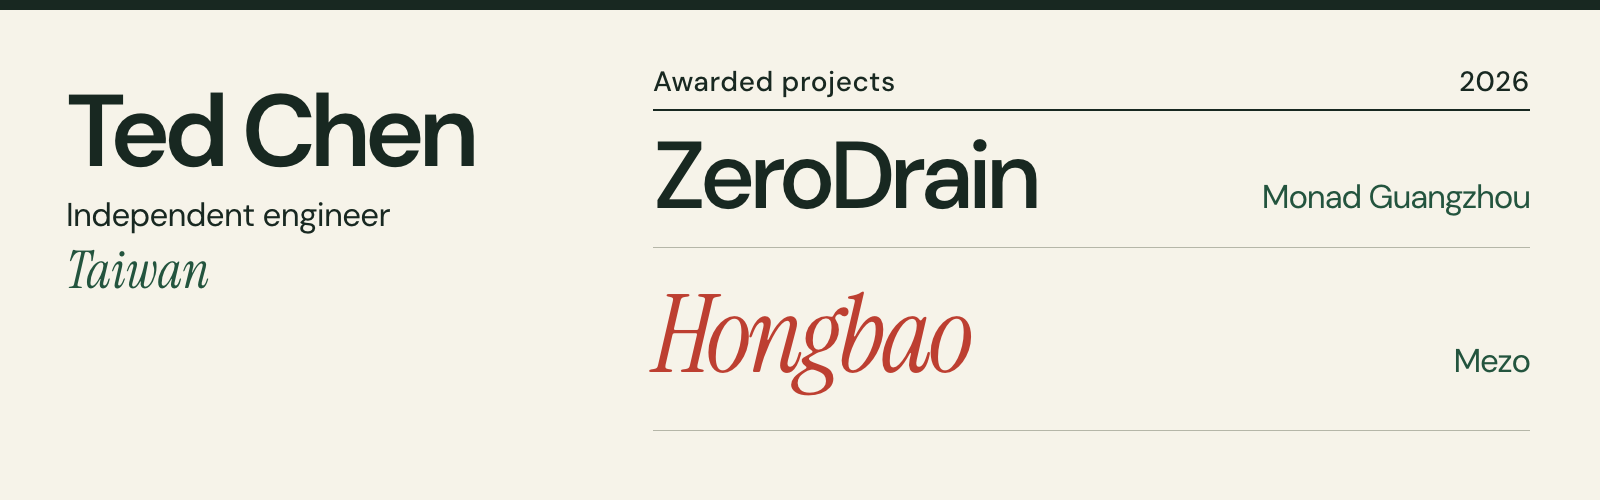
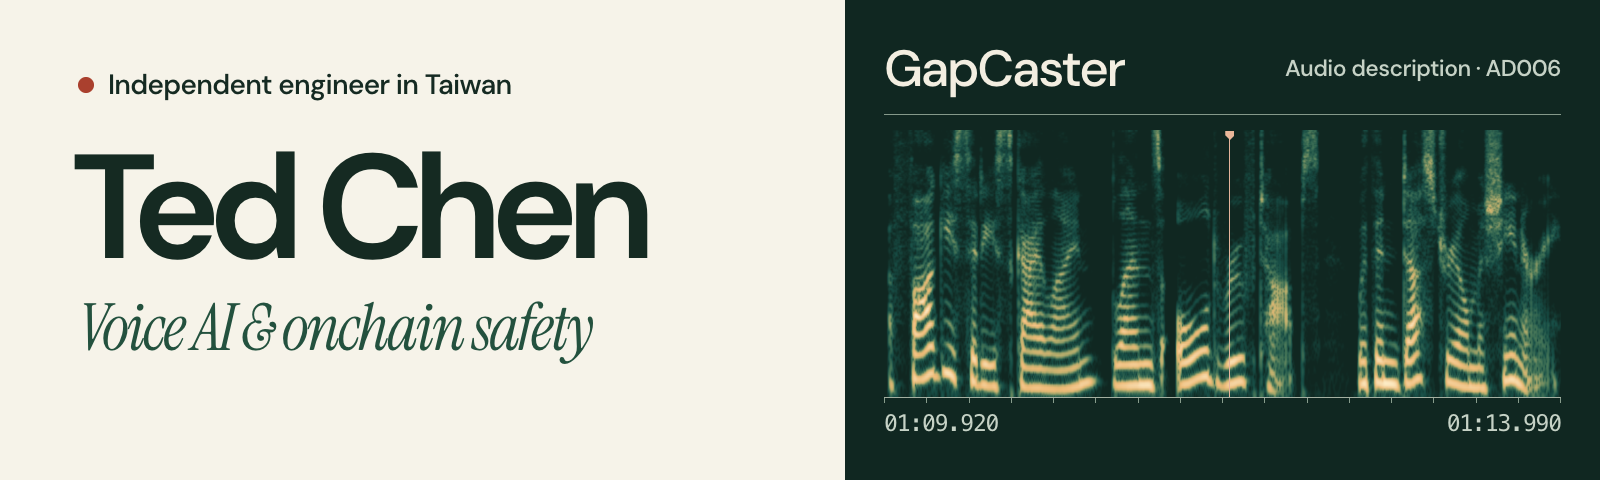
Lead with working demos and document six 2026 results

diff --git a/README.zh-TW.md b/README.zh-TW.md
@@ -1,35 +1,58 @@
-[![Ted Chen，台灣的獨立工程師](github-hero.png)](https://tedinroc.github.io/zh.html)
+[![Ted Chen，台灣的獨立工程師，開發語音 AI 與鏈上安全工具。封面是 GapCaster 一段 4.07 秒旁白的頻譜圖。](github-hero.png)](https://tedinroc.github.io/zh.html)
 
-[作品集](https://tedinroc.github.io/zh.html) · [LinkedIn](https://www.linkedin.com/in/tedinroc) · [X](https://x.com/tedinroc) · [English](README.md)
+[體驗 Eleven Seconds](https://tedinroc.github.io/eleven-seconds-arena/) · [試聽 GapCaster](https://tedinroc.github.io/gapcaster/zh.html#sample) · [2026 年成果](#recognition) · [English](README.md)
 
-我在台灣獨立開發語音工具和鏈上應用。
+我是 Ted，在台灣獨立開發。我做能在筆電上執行的語音工具，也設計讓人有時間攔下異常交易的鏈上系統。下面兩個作品都能直接體驗。
 
-## [試用 ZeroDrain 零盜盾](https://zerodrain-monad.pages.dev/)
+<a name="eleven-seconds-十一秒"></a>
 
-在 Monad 測試網竄改提款地址，看金庫攔下這筆交易。斷路器啟動後，只有事前登記的通行密鑰能授權提款，款項只能匯往預設的復原地址。
+## Eleven Seconds 十一秒 · 攔下一次合約升級
 
-[Monad Blitz 廣州站第二名](https://mojo.devnads.com/events/18?tab=showcase) · [原始碼](https://github.com/tedinroc/zerodrain-monad)
+在 Monad 測試網送出升級提案後，三個各自持有金鑰的監控程式會在 30 個區塊內檢查提案。只要其中一個發現提案違反安全規則，就能在鏈上否決這次升級。[操作測試網展示](https://tedinroc.github.io/eleven-seconds-arena/) · [原始碼](https://github.com/tedinroc/eleven-seconds) · [參賽作品頁](https://mojo.devnads.com/projects/409)
 
-## [看 Hongbao 紅包示範](https://hongbao.trytry.net/video/)
+<a name="gapcaster"></a>
 
-兩分鐘的影片記錄了一個在 Mezo 主網發出的 MUSD 紅包。朋友點開群組連結就能平分紅包，原本沒有錢包也能領。每份紅包預設存入收款人的儲蓄帳戶，另附少量 BTC 支付手續費。目前主網測試版設有額度上限。
+## GapCaster · 聽見電影對白之間的畫面
 
-[獲選 Mezo Buildathon 第二波補助](https://app.akindo.io/communities/NmgM6k04KCdvpAZ8N/products/Pv1eeQQOVTgXBxv4) · [原始碼](https://github.com/tedinroc/hongbao)
+打開《Tears of Steel》的同一段場景，比較原片與加入口述影像的版本。GapCaster 在筆電上離線產生旁白，逐句量測長度。有一段對白空檔只有 2.75 秒，它將原本 2.78 秒的旁白調到 2.64 秒，審閱者也能逐句對照影片依據。[比較兩個版本](https://tedinroc.github.io/gapcaster/zh.html#sample) · [播放口述影像片段](https://github.com/tedinroc/gapcaster/blob/main/samples/tears-of-steel-0-140/clip_with_ad.mp4) · [原始碼與計時資料](https://github.com/tedinroc/gapcaster)
 
-## 語音與 AI agent
+<a name="recognition"></a>
 
-- <a name="gapcaster"></a>**GapCaster** 在筆電上離線產生口述影像，量過旁白的實際長度，再改寫或調速，讓它剛好落在電影對白的空檔。每句描述都留有依據，方便對照影片審閱。**入圍 ASUS UGen AI League 2026 決賽。** [看加入口述影像的片段](https://github.com/tedinroc/gapcaster/blob/main/samples/tears-of-steel-0-140/clip_with_ad.mp4) · [程式碼與輸出範例](https://github.com/tedinroc/gapcaster)
-- <a name="remote-hands"></a>**Remote Hands** 讓 AI 根據主控台截圖及按鍵輸入，修復 Linux 測試伺服器。另一個程式會重新開機、測試 SSH 連線，並檢查資料完整性。 [重播修復過程](https://tedinroc.github.io/remote-hands/) · [原始碼](https://github.com/tedinroc/remote-hands)
-- **KAIKŌ** 讓客人用語音點餐，伺服器在接單前會核對價格並驗證工具呼叫。 [看完整點餐錄影](https://tedinroc.github.io/kaiko/)
-- **語音 agent 手錶** 把 ESP32-S3 手錶接上我用 Go 寫的語音閘道。 [看手錶原型](https://tedinroc.github.io/watch/)
+## 2026 年競賽與補助
 
-## 其他鏈上作品
+| 作品 | 成績與紀錄 |
+| --- | --- |
+| Eleven Seconds | [Monad Blitz 上海 V3 第一名](https://mojo.devnads.com/events/17?tab=showcase) |
+| Upgrade Airlock | [ETH Shenzhen 2026 第二名](https://github.com/tedinroc/upgrade-airlock#readme) |
+| ZeroDrain | [Monad Blitz 廣州站第二名](https://mojo.devnads.com/events/18?tab=showcase) |
+| Isotherm | [Monad Metropolis 的 MetaMask 最佳 Agent Wallet 外掛類別第二名](https://x.com/monad/status/2120551113610953111) · [獎金 750 美元](https://github.com/tedinroc/isotherm/blob/main/docs/awards/metropolis-metamask-bounty.png) |
+| GapCaster | [ASUS UGen AI League 2026 高效開發國際線上組決賽入圍](https://contest.bhuntr.com/en/39jg9vimiynrhlksze/article/4517/) |
+| Hongbao | [獲選 Mezo Buildathon 第二波開發補助](https://api.akindo.io/public/wave-hacks/OVOO0gdrVU8379D10/waves/WjDnR6LJaSBkVkQz/submission-summaries?page=1&limit=5&keyword=Hongbao) · [參賽作品頁](https://app.akindo.io/communities/NmgM6k04KCdvpAZ8N/products/Pv1eeQQOVTgXBxv4) |
 
-- <a name="eleven-seconds-十一秒"></a>**Eleven Seconds 十一秒** 讓三個獨立監控程式在 30 個區塊的等待期內檢查合約升級，並能在鏈上否決違規操作。**Monad Blitz 上海 V3 第一名。** [操作測試網展示](https://tedinroc.github.io/eleven-seconds-arena/) · [原始碼](https://github.com/tedinroc/eleven-seconds) · [官方得獎名單](https://mojo.devnads.com/events/17?tab=showcase)
-- <a name="upgrade-airlock-升級氣閘"></a>**Upgrade Airlock 升級氣閘** 要求代理合約先經過冷卻期並取得鏈上放行，才能升級。**ETH Shenzhen 2026 第二名。** [觀看展示](https://upgrade-airlock.pages.dev/video/) · [原始碼](https://github.com/tedinroc/upgrade-airlock)
-- <a name="isotherm"></a>**Isotherm** 用機場氣象觀測報告結算城市氣溫市場，並提供 MetaMask Agent Wallet 外掛，讓 AI agent 使用訂單簿。**獲 Monad Metropolis 的 MetaMask 賞金 US$750。** [探索專案](https://tedinroc.github.io/isotherm/) · [原始碼](https://github.com/tedinroc/isotherm) · [得獎紀錄](https://github.com/tedinroc/isotherm/blob/main/docs/awards/metropolis-metamask-bounty.png)
-- <a name="undo-for-bitcoin"></a>**Undo for Bitcoin** 讓使用者能在公開等待期內，用手機的通行密鑰撤回尚待簽署的比特幣支出。 [操作測試網展示](https://undo-btc.pages.dev/) · [原始碼](https://github.com/tedinroc/undo)
+[在作品集查看完整紀錄](https://tedinroc.github.io/zh.html#recognition)
 
-系統由我設計，大部分程式碼由 Claude Code 與 Codex 撰寫。我負責審查、測試與部署。如果展示出錯，歡迎在對應的儲存庫開 issue，附上重現步驟。
+## 近期作品
 
-我也用真實高程資料做了一個 three.js 月球場景。 [探索 EARTHRISE](https://tedinroc.github.io/earthrise/) · [作品集影像來源](https://tedinroc.github.io/assets/portfolio/credits.txt)
+- <a name="試用-zerodrain-零盜盾"></a>**ZeroDrain 零盜盾**。試著更改提款地址，看金庫如何拒絕這筆交易。斷路器啟動後，只有事先登記的通行密鑰能授權提款，款項也只能匯往預設的復原地址。[操作測試網展示](https://zerodrain-monad.pages.dev/) · [原始碼](https://github.com/tedinroc/zerodrain-monad)
+- <a name="看-hongbao-紅包示範"></a>**Hongbao 紅包**。朋友點開群組連結就能平分 MUSD 紅包。兩分鐘的影片記錄一筆真實的 Mezo 主網轉帳，領紅包的人也會拿到支付手續費用的 BTC。目前主網測試版設有額度上限。[看兩分鐘影片](https://hongbao.trytry.net/video/) · [原始碼](https://github.com/tedinroc/hongbao)
+
+<a name="語音與-ai-agent"></a>
+<a name="其他鏈上作品"></a>
+
+## 更多作品
+
+- <a name="remote-hands"></a>**Remote Hands** 讓 AI 根據主控台截圖及按鍵輸入，修復 Linux 測試伺服器。另一個程式會重新開機、測試 SSH 連線並檢查資料完整性。[重播修復過程](https://tedinroc.github.io/remote-hands/) · [原始碼](https://github.com/tedinroc/remote-hands)
+- <a name="isotherm"></a>**Isotherm** 用機場氣象觀測報告結算城市氣溫市場，也提供 MetaMask Agent Wallet 外掛，讓 AI agent 讀取訂單簿及下單。[探索市場](https://tedinroc.github.io/isotherm/) · [原始碼](https://github.com/tedinroc/isotherm)
+- <a name="upgrade-airlock-升級氣閘"></a>**Upgrade Airlock 升級氣閘** 要求代理合約先經過冷卻期並取得鏈上放行，才能升級。[觀看展示](https://upgrade-airlock.pages.dev/video/) · [原始碼](https://github.com/tedinroc/upgrade-airlock)
+- <a name="undo-for-bitcoin"></a>**Undo for Bitcoin** 讓使用者在公開等待期內，用手機通行密鑰撤回一筆尚待簽署的比特幣支出。[操作測試網展示](https://undo-btc.pages.dev/) · [原始碼](https://github.com/tedinroc/undo)
+- **KAIKŌ** 讓客人用語音點餐，伺服器會在接單前核對價格。[看完整點餐錄影](https://tedinroc.github.io/kaiko/)
+- **語音 agent 手錶** 把 ESP32-S3 手錶接上我用 Go 寫的語音閘道。[看手錶原型](https://tedinroc.github.io/watch/)
+- **EARTHRISE** 用真實高程資料在瀏覽器中重建月球表面。[探索月面](https://tedinroc.github.io/earthrise/) · [Tripo 精選作品頁](https://developers.tripo3d.com/en/showcase/earthrise)
+
+## 我的開發方式
+
+我負責系統設計、程式碼審查、測試及部署，大部分程式碼由 Claude Code 與 Codex 撰寫。如果遇到展示無法運作，歡迎到對應的儲存庫開 issue，附上重現步驟。
+
+[作品集](https://tedinroc.github.io/zh.html) · [LinkedIn](https://www.linkedin.com/in/tedinroc) · [X](https://x.com/tedinroc)
+
+[封面頻譜取自 GapCaster 的 AD006 旁白](https://github.com/tedinroc/gapcaster/blob/main/samples/tears-of-steel-0-140/lines/AD006.wav) · [作品集影像來源](https://tedinroc.github.io/assets/portfolio/credits.txt)

diff --git a/README.md b/README.md
@@ -1,35 +1,58 @@
-[![Ted Chen, independent engineer in Taiwan](github-hero.png)](https://tedinroc.github.io/)
+[![Ted Chen, independent engineer in Taiwan working on voice AI and onchain safety. A spectrogram shows 4.07 seconds of GapCaster audio description.](github-hero.png)](https://tedinroc.github.io/)
 
-[Portfolio](https://tedinroc.github.io/) · [LinkedIn](https://www.linkedin.com/in/tedinroc) · [X](https://x.com/tedinroc) · [繁體中文](README.zh-TW.md)
+[Try Eleven Seconds](https://tedinroc.github.io/eleven-seconds-arena/) · [Hear GapCaster](https://tedinroc.github.io/gapcaster/#sample) · [2026 results](#recognition) · [繁體中文](README.zh-TW.md)
 
-I build voice tools and onchain apps in Taiwan.
+I’m Ted, an independent engineer in Taiwan. I build voice tools that run on a laptop and onchain systems that give people time to stop a bad transaction. Here are two you can try.
 
-## [Try ZeroDrain on testnet](https://zerodrain-monad.pages.dev/)
+<a name="eleven-seconds"></a>
 
-Change a withdrawal address and watch the vault reject it. After the circuit breaker trips, a previously enrolled passkey can release funds only to the preset recovery address.
+## Eleven Seconds · Stop a contract upgrade
 
-[2nd place, Monad Blitz Guangzhou](https://mojo.devnads.com/events/18?tab=showcase) · [Code](https://github.com/tedinroc/zerodrain-monad)
+Propose an upgrade on Monad testnet. Three independently keyed sentinels get 30 blocks to check it. Any one can veto an upgrade that breaks its safety rules. [Try the arena](https://tedinroc.github.io/eleven-seconds-arena/) · [Read the code](https://github.com/tedinroc/eleven-seconds) · [Competition entry](https://mojo.devnads.com/projects/409)
 
-## [Watch the Hongbao demo](https://hongbao.trytry.net/video/)
+<a name="gapcaster"></a>
 
-This two-minute film follows a real MUSD red packet on Mezo mainnet. Friends open a link in their group chat to claim equal shares, even without a wallet. Each share goes into savings by default, with a little BTC for gas. Hongbao runs as a capped beta.
+## GapCaster · Hear what happens between lines
 
-[Selected for a Mezo Buildathon Wave 2 grant](https://app.akindo.io/communities/NmgM6k04KCdvpAZ8N/products/Pv1eeQQOVTgXBxv4) · [Code](https://github.com/tedinroc/hongbao)
+Compare the original scene from *Tears of Steel* with a version that adds audio description. GapCaster runs offline and measures each spoken line. In one 2.75-second gap, it sped up a 2.78-second line to play in 2.64 seconds. A reviewer can check each line against its source. [Compare the two cuts](https://tedinroc.github.io/gapcaster/#sample) · [Play the described clip](https://github.com/tedinroc/gapcaster/blob/main/samples/tears-of-steel-0-140/clip_with_ad.mp4) · [Inspect the code and timing data](https://github.com/tedinroc/gapcaster)
 
-## Voice and AI agents
+<a name="recognition"></a>
 
-- <a name="gapcaster"></a>**GapCaster** writes and times audio descriptions so they fit between lines of dialogue. For the laptop prototype, I kept each line’s evidence for a reviewer to check alongside the clip. **ASUS UGen AI League 2026 finalist.** [Watch the described clip](https://github.com/tedinroc/gapcaster/blob/main/samples/tears-of-steel-0-140/clip_with_ad.mp4) · [Code and sample outputs](https://github.com/tedinroc/gapcaster)
-- <a name="remote-hands"></a>**Remote Hands** repairs a Linux test server from console screenshots and keystrokes. A separate probe reboots it and checks SSH access and data integrity. [Replay a repair](https://tedinroc.github.io/remote-hands/) · [Source](https://github.com/tedinroc/remote-hands)
-- **KAIKŌ** takes a restaurant order by voice. The server checks prices and tool calls before accepting the order. [Watch a demo order](https://tedinroc.github.io/kaiko/)
-- **Voice-agent watch** connects an ESP32-S3 watch to a voice gateway I wrote in Go. [Explore the prototype](https://tedinroc.github.io/watch/)
+## 2026 recognition
 
-## Earlier onchain work
+| Project | Result and record |
+| --- | --- |
+| Eleven Seconds | [1st place · Monad Blitz Shanghai V3](https://mojo.devnads.com/events/17?tab=showcase) |
+| Upgrade Airlock | [2nd place · ETH Shenzhen 2026](https://github.com/tedinroc/upgrade-airlock#readme) |
+| ZeroDrain | [2nd place · Monad Blitz Guangzhou](https://mojo.devnads.com/events/18?tab=showcase) |
+| Isotherm | [2nd in MetaMask’s Best Agent Wallet Plugin category · Monad Metropolis](https://x.com/monad/status/2120551113610953111) · [US$750 bounty](https://github.com/tedinroc/isotherm/blob/main/docs/awards/metropolis-metamask-bounty.png) |
+| GapCaster | [Finalist, High-Efficiency Development (International Online) · ASUS UGen AI League 2026](https://contest.bhuntr.com/en/39jg9vimiynrhlksze/article/4517/) |
+| Hongbao | [Selected for a Wave 2 grant · Mezo Buildathon](https://api.akindo.io/public/wave-hacks/OVOO0gdrVU8379D10/waves/WjDnR6LJaSBkVkQz/submission-summaries?page=1&limit=5&keyword=Hongbao) · [Project entry](https://app.akindo.io/communities/NmgM6k04KCdvpAZ8N/products/Pv1eeQQOVTgXBxv4) |
 
-- <a name="eleven-seconds"></a>**Eleven Seconds** gives three independent sentinels 30 blocks to inspect and veto a contract upgrade. **1st place, Monad Blitz Shanghai V3.** [Try the testnet demo](https://tedinroc.github.io/eleven-seconds-arena/) · [Source](https://github.com/tedinroc/eleven-seconds) · [Official results](https://mojo.devnads.com/events/17?tab=showcase)
-- <a name="upgrade-airlock"></a>**Upgrade Airlock** makes a proxy upgrade wait for an onchain clearance decision. **2nd place, ETH Shenzhen 2026.** [Watch the demo](https://upgrade-airlock.pages.dev/video/) · [Source](https://github.com/tedinroc/upgrade-airlock)
-- <a name="isotherm"></a>**Isotherm** settles city-temperature markets using airport weather reports and exposes an order book to agents through a MetaMask Agent Wallet plugin. **US$750 MetaMask bounty, Monad Metropolis.** [Demo](https://tedinroc.github.io/isotherm/) · [Source](https://github.com/tedinroc/isotherm) · [Award card](https://github.com/tedinroc/isotherm/blob/main/docs/awards/metropolis-metamask-bounty.png)
-- <a name="undo-for-bitcoin"></a>**Undo for Bitcoin** lets someone cancel a pending Bitcoin spend with a phone passkey during a public waiting period. [Try the testnet demo](https://undo-btc.pages.dev/) · [Source](https://github.com/tedinroc/undo)
+[View the records in my portfolio](https://tedinroc.github.io/#recognition)
 
-I design the systems, review the code, run the tests and deploy. Claude Code and Codex write most of the implementation. If a demo breaks, I welcome an issue with steps to reproduce it.
+## Recent work
 
-I also made a three.js lunar scene using real elevation data. [Explore EARTHRISE](https://tedinroc.github.io/earthrise/) · [Portfolio image credits](https://tedinroc.github.io/assets/portfolio/credits.txt)
+- <a name="try-zerodrain-on-testnet"></a>**ZeroDrain.** Change the withdrawal address and watch the vault refuse it. Once the circuit breaker trips, a previously enrolled passkey can release funds only to a preset recovery address. [Try it on testnet](https://zerodrain-monad.pages.dev/) · [Code](https://github.com/tedinroc/zerodrain-monad)
+- <a name="watch-the-hongbao-demo"></a>**Hongbao.** Friends open a group-chat link to claim equal shares of an MUSD red packet. The two-minute film follows a real transfer in the capped Mezo mainnet beta, including BTC for gas. [Watch the film](https://hongbao.trytry.net/video/) · [Code](https://github.com/tedinroc/hongbao)
+
+<a name="voice-and-ai-agents"></a>
+<a name="earlier-onchain-work"></a>
+
+## More projects to explore
+
+- <a name="remote-hands"></a>**Remote Hands** repairs a Linux test server from console screenshots and keystrokes. A separate probe reboots it and checks SSH access and data integrity. [Replay a repair](https://tedinroc.github.io/remote-hands/) · [Code](https://github.com/tedinroc/remote-hands)
+- <a name="isotherm"></a>**Isotherm** settles city-temperature markets against airport weather reports. Its MetaMask Agent Wallet plugin gives agents access to the order book. [Explore a market](https://tedinroc.github.io/isotherm/) · [Code](https://github.com/tedinroc/isotherm)
+- <a name="upgrade-airlock"></a>**Upgrade Airlock** holds a proxy upgrade until the cooldown expires and onchain clearance is granted. [Watch the demo](https://upgrade-airlock.pages.dev/video/) · [Code](https://github.com/tedinroc/upgrade-airlock)
+- <a name="undo-for-bitcoin"></a>**Undo for Bitcoin** lets a phone passkey cancel a pending spend during a public waiting period. [Try the testnet demo](https://undo-btc.pages.dev/) · [Code](https://github.com/tedinroc/undo)
+- **KAIKŌ** takes restaurant orders by voice and checks prices before accepting each order. [Watch an order](https://tedinroc.github.io/kaiko/)
+- **Voice-agent watch** connects an ESP32-S3 watch to a voice gateway I wrote in Go. [See the prototype](https://tedinroc.github.io/watch/)
+- **EARTHRISE** uses real elevation data to render the lunar surface in a browser. [Explore the Moon](https://tedinroc.github.io/earthrise/) · [Tripo showcase](https://developers.tripo3d.com/en/showcase/earthrise)
+
+## How I build
+
+I design the systems, review the code, run the tests and deploy the demos. Claude Code and Codex write most of the implementation. If a demo breaks, an issue in its repository with steps to reproduce it is welcome.
+
+[Portfolio](https://tedinroc.github.io/) · [LinkedIn](https://www.linkedin.com/in/tedinroc) · [X](https://x.com/tedinroc)
+
+[Cover spectrogram from GapCaster’s AD006 narration](https://github.com/tedinroc/gapcaster/blob/main/samples/tears-of-steel-0-140/lines/AD006.wav) · [Portfolio image credits](https://tedinroc.github.io/assets/portfolio/credits.txt)
